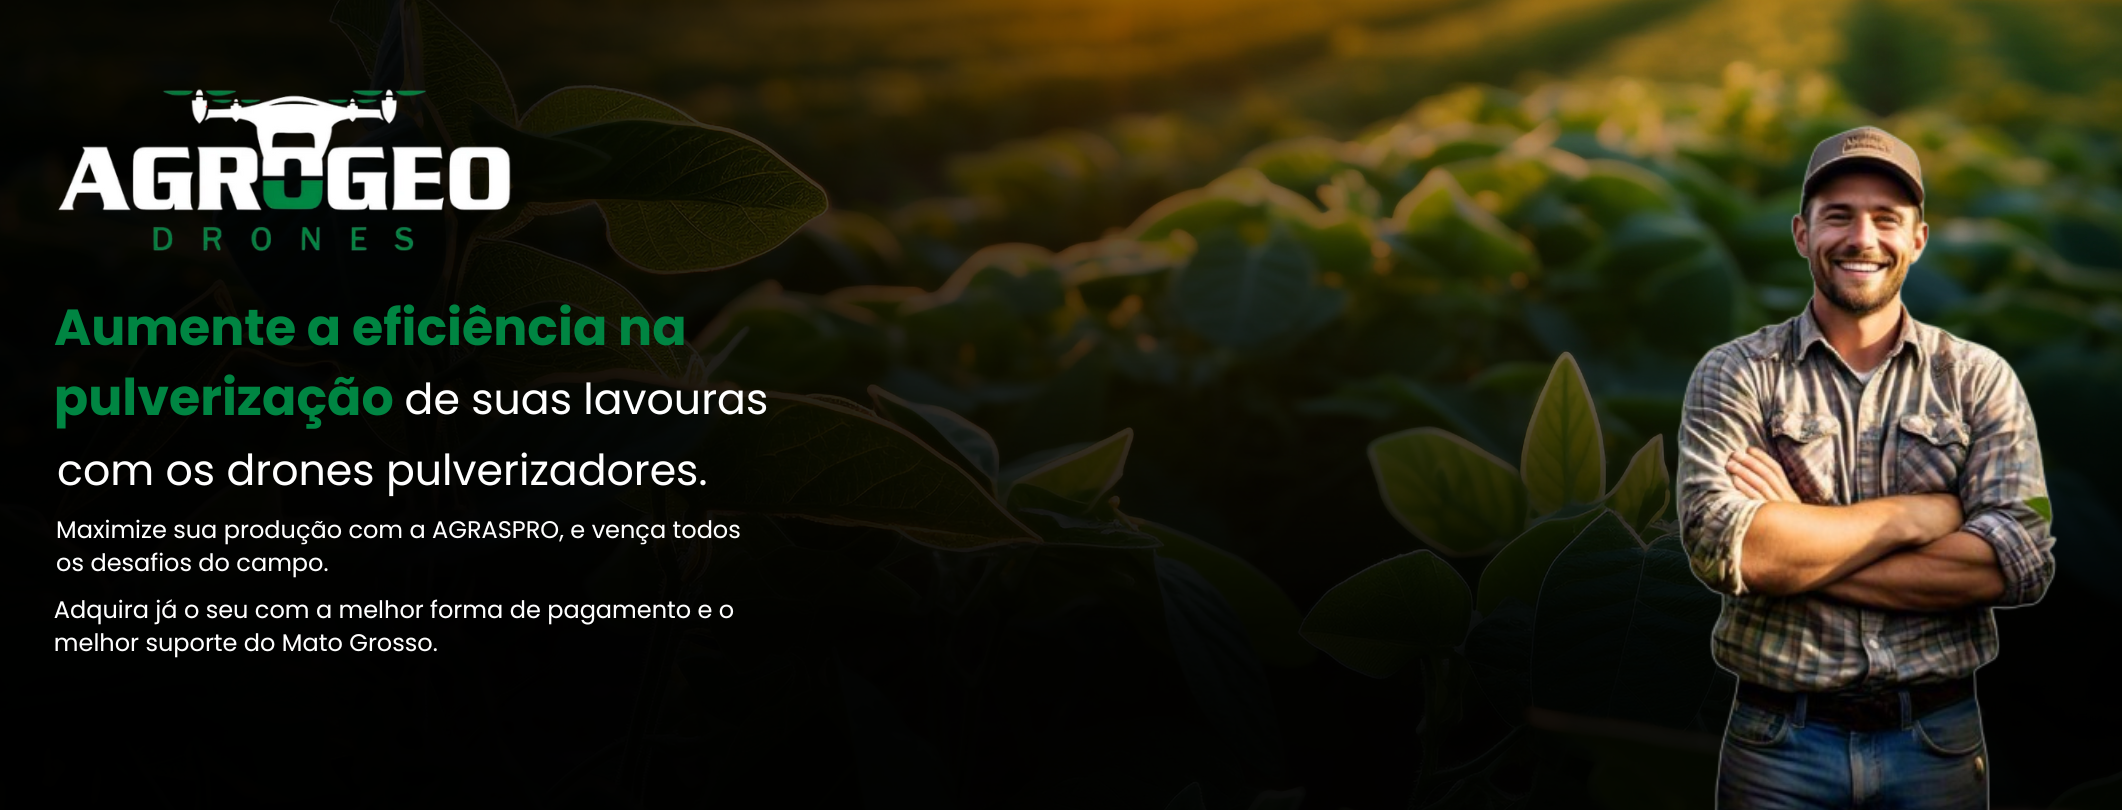
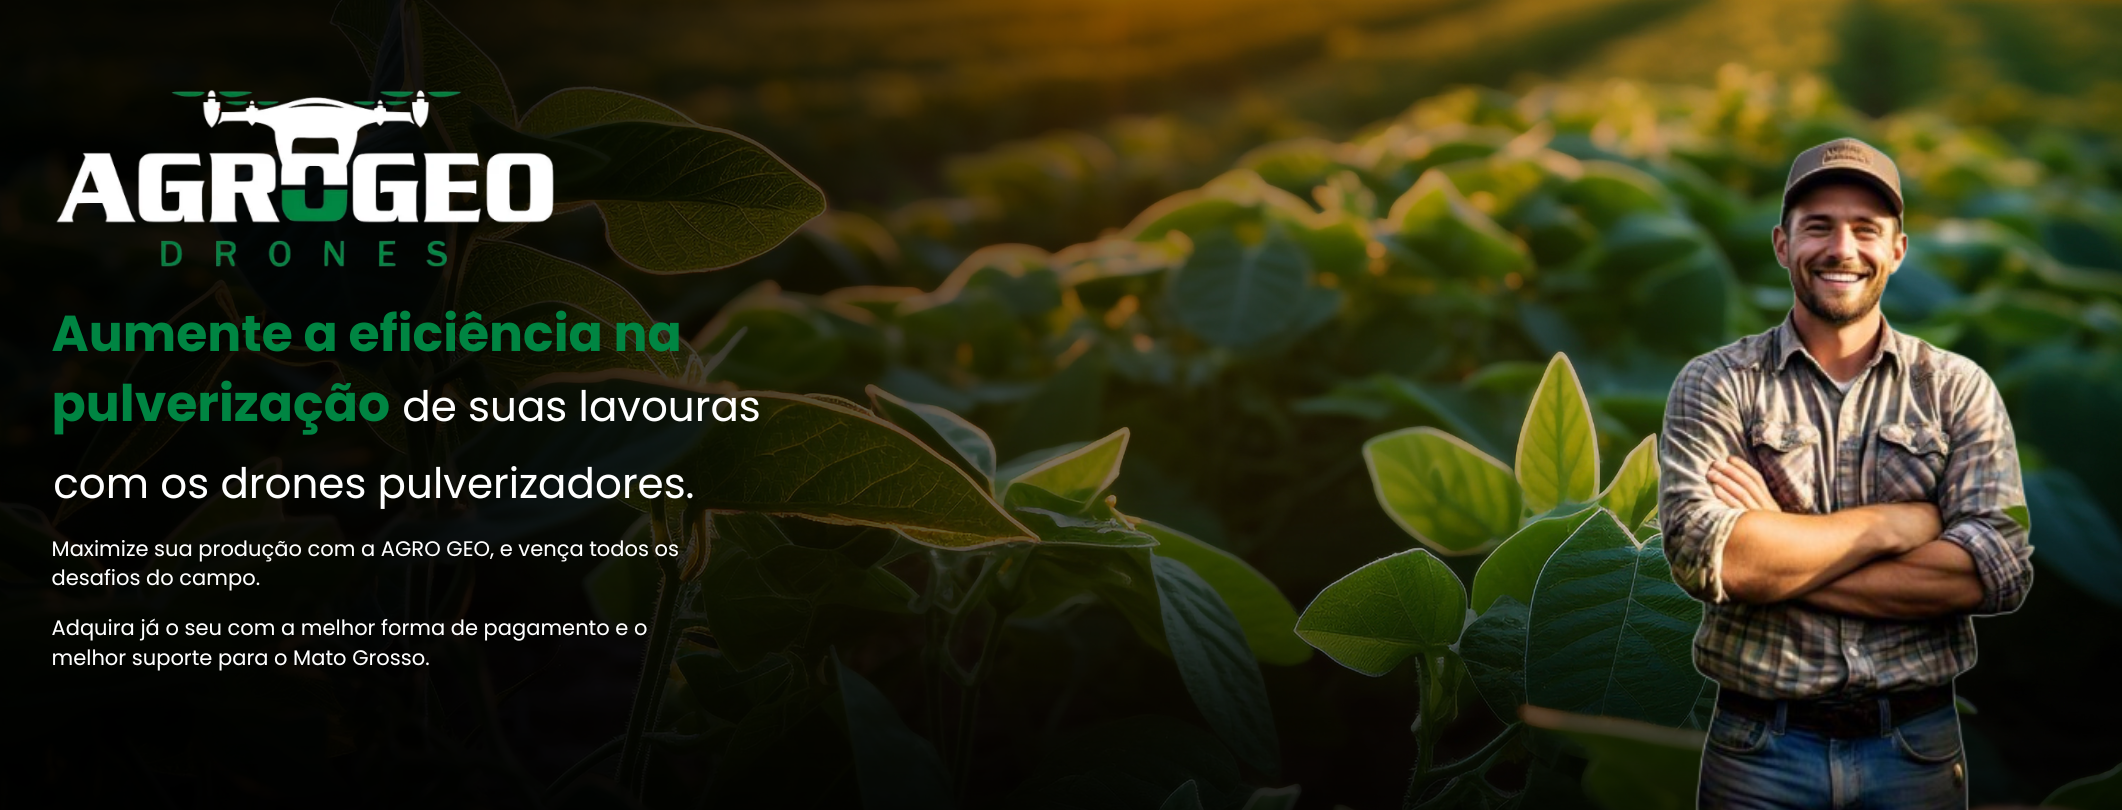
fix: ajuste de imagens

diff --git a/src/assets/images/index.ts b/src/assets/images/index.ts
@@ -1,5 +1,4 @@
 import AssistanceIMG from "./assistance.png";
-import BannerFullIMG from "./banner-full.png";
 import BannerMobileIMG from "./banner-mobile.png";
 import BannerTabletIMG from "./banner-tablet.png";
 import Location1IMG from "./agrogeo-local1.jpeg";
@@ -15,7 +14,6 @@ export {
   T25IMG,
   T50IMG,
   AssistanceIMG,
-  BannerFullIMG,
   BannerMobileIMG,
   BannerTabletIMG,
   Location1IMG,

diff --git a/src/components/Sections/InfoDrones/index.tsx b/src/components/Sections/InfoDrones/index.tsx
@@ -6,8 +6,7 @@ import {
   SinalIMG,
   SprinkleIMG,
 } from "~/assets/icons";
-import T25IMG from "~/assets/images/T25.png";
-import T50IMG from "~/assets/images/T50.png";
+import { T25IMG, T50IMG } from "~/assets/images";
 import React, { FC, ReactElement } from "react";
 
 import ItemDrone from "./components/ItemDrone";

diff --git a/src/components/Sections/Banner/index.tsx b/src/components/Sections/Banner/index.tsx
@@ -1,4 +1,4 @@
-import BannerIMG from "~/assets/images/banner-full4.png";
+import BannerIMG from "~/assets/images/banner-full2.png";
 import BannerMobileIMG from "~/assets/images/banner-mobile.png";
 import BannerTabletIMG from "~/assets/images/banner-tablet.png";
 import T50 from "~/assets/images/T50.png";
